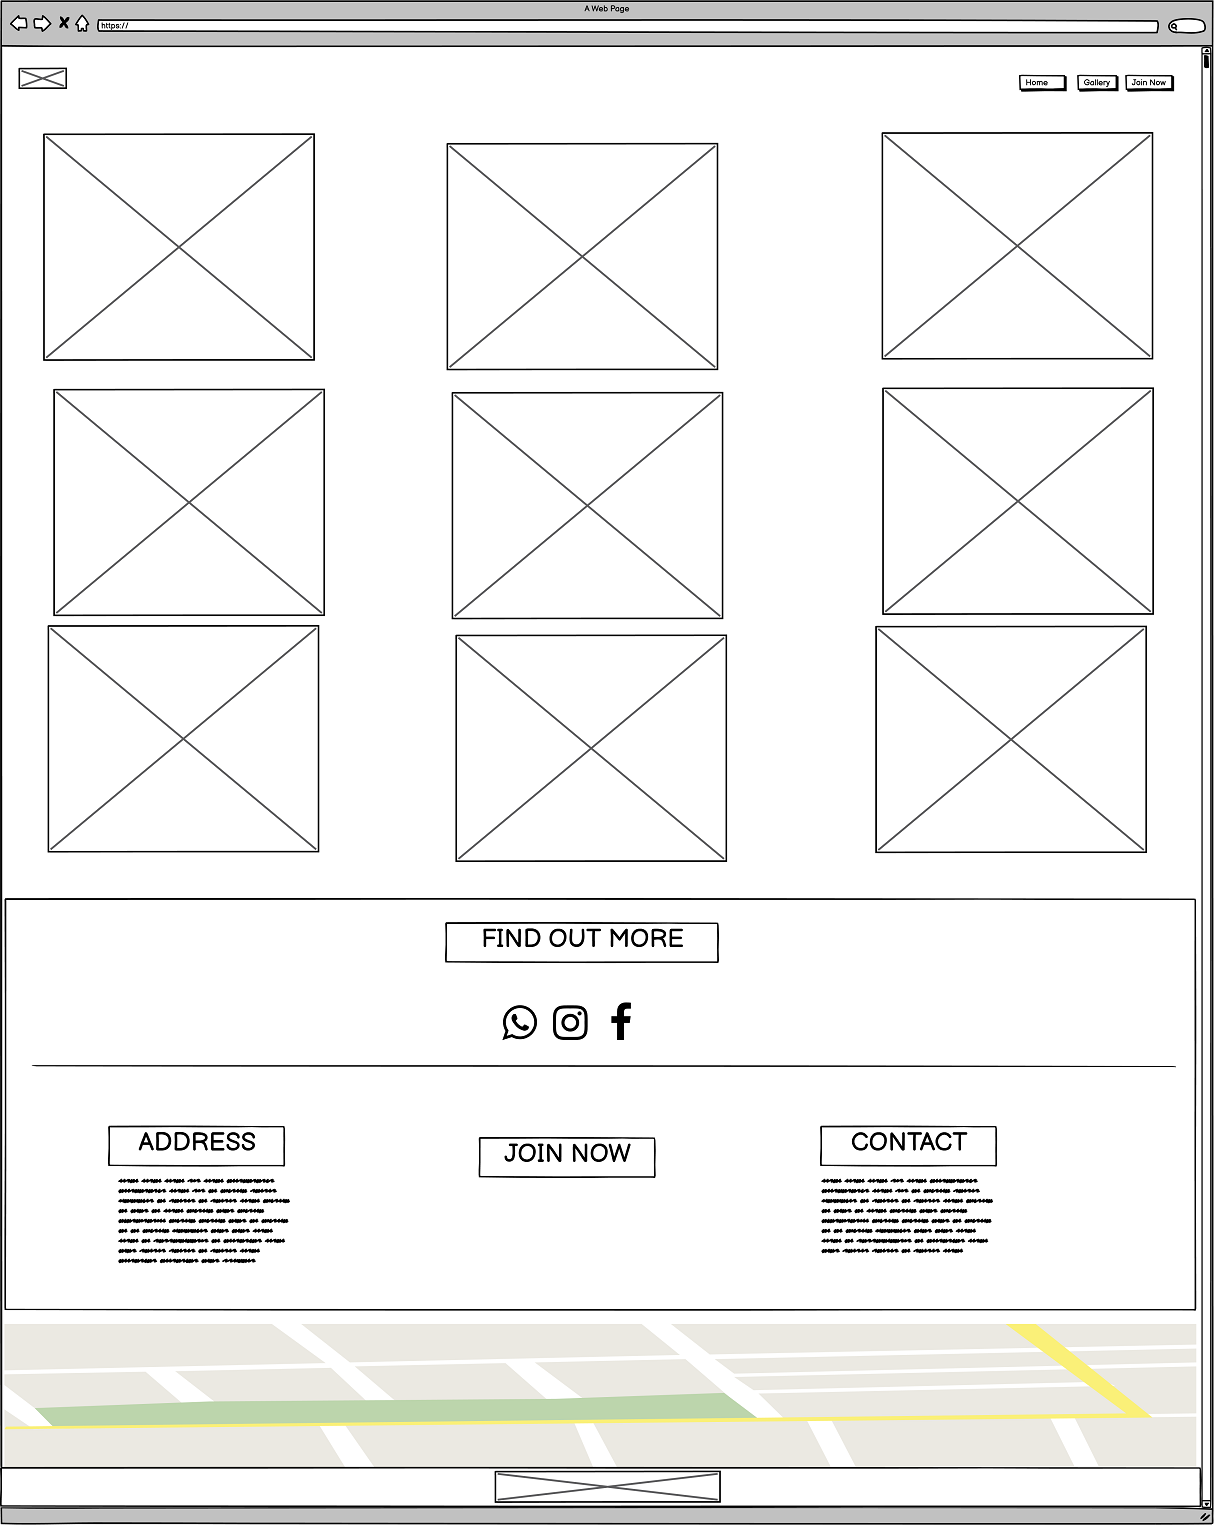
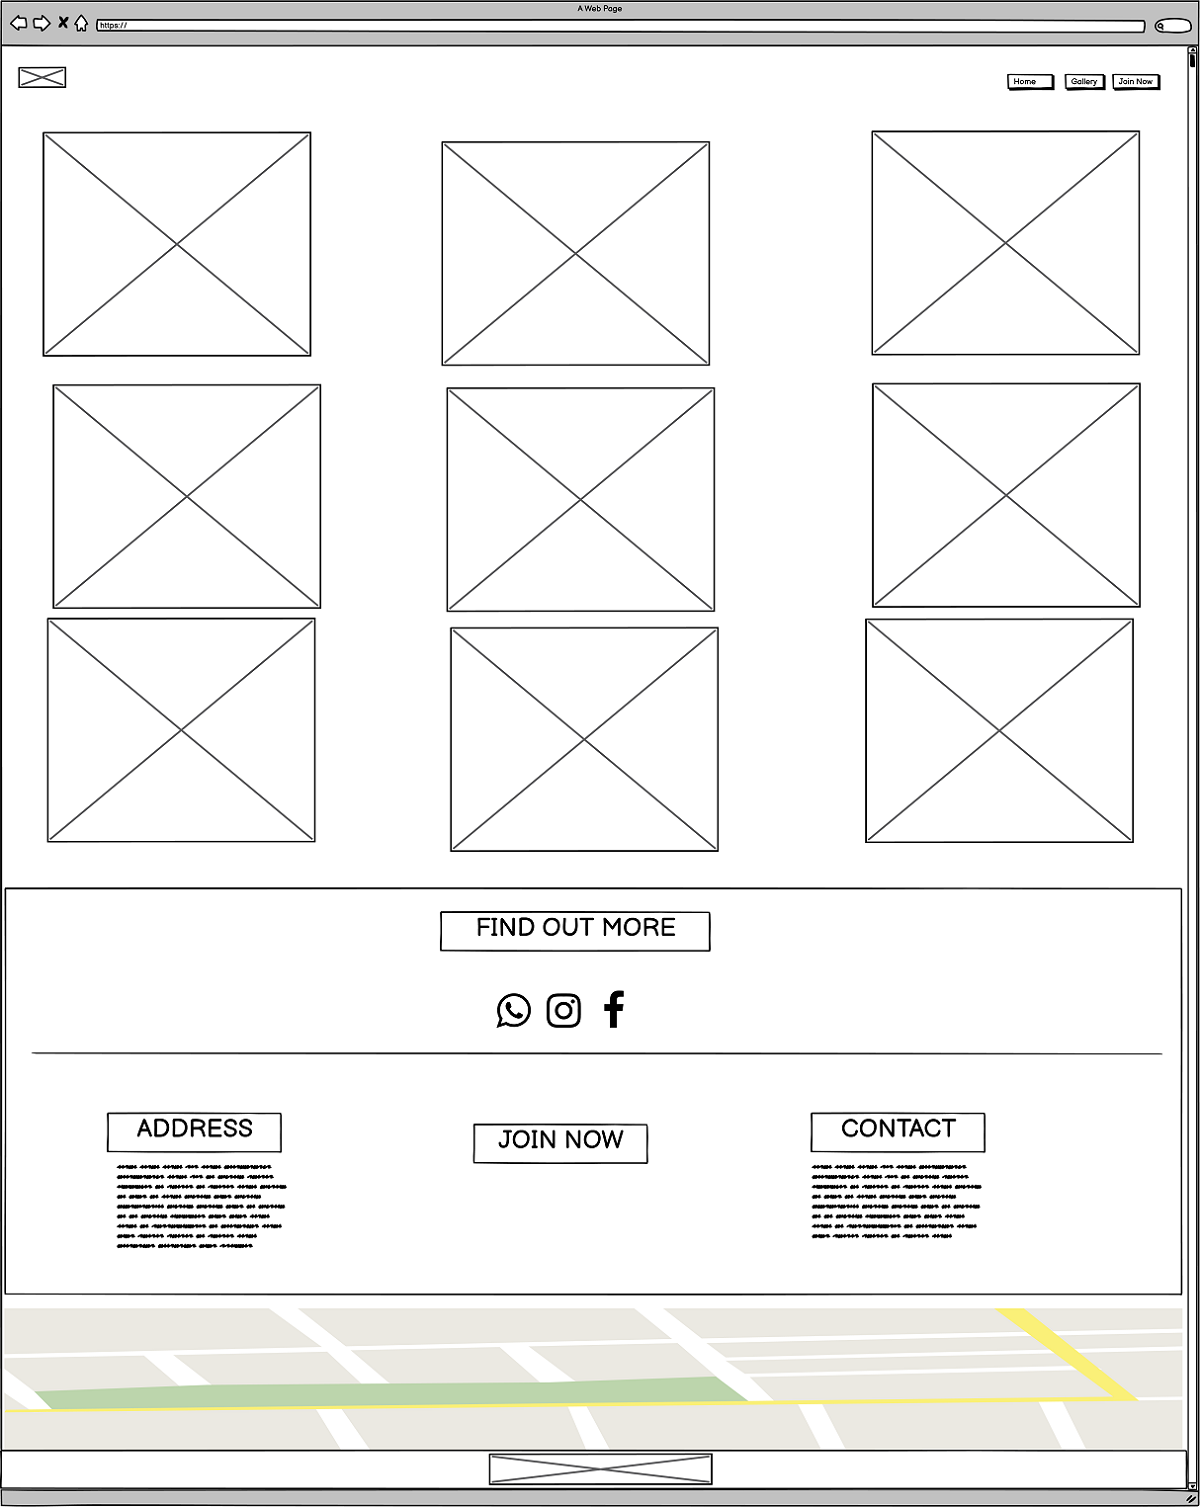
Added tablet wireframe image

diff --git a/README.md b/README.md
@@ -125,16 +125,28 @@ I have decided to use Balsamic to create wireframes for my website. First I crea
 
 You can find my wireframes below:
 
-### [Home Page Desktop Wireframe](wireframes/home-desktop.png)
-### [Gallery Page Wireframe](wireframes/gallery-desktop.png)
-### [Join Now Page Wireframe](wireframes/join-desktop.png)
 
+### [Home Page Desktop Wireframe](wireframes/home-desktop.png)
+### [Gallery Page Desktop Wireframe](wireframes/gallery-desktop.png)
+### [Join Now Page Desktop Wireframe](wireframes/join-desktop.png)
+
+
+### [Home Page Tablet Wireframe](wireframes/home-tablet.png)
+### [Gallery Page Tablet Wireframe]()
+### [Join Now Page Tablet Wireframe]()
+
+### [Home Page Mobile Wireframe]()
+### [Gallery Page Mobile Wireframe]()
+### [Join Now Page Mobile Wireframe]()
 
 [Back to Top](#table-of-contents)
 
 
 
+
 Features
+
+
 Existing Features
 Features to be implemented
 Technologies used
